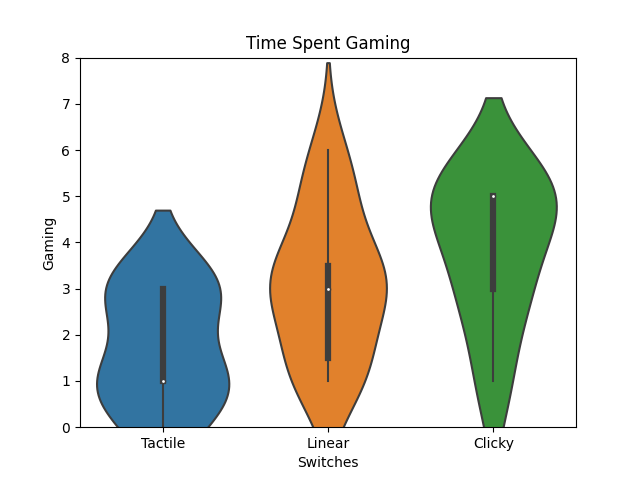
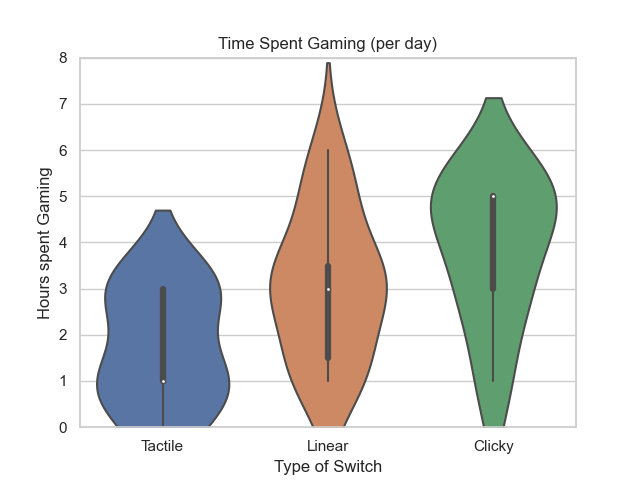
??

diff --git a/main.py b/main.py
@@ -1,10 +1,12 @@
 import pandas as pd
 import matplotlib.pyplot as plt
 import seaborn as sns
+sns.set(style = "whitegrid")
 
-keydf = pd.read_excel('C:\\Users\\Justin\\Documents\\keyb1.xlsx')
+keydf = pd.read_excel('C:\\Users\\Justin\\PycharmProjects\\keyboard\\keyb1.xlsx')
+keydf2 = pd.read_excel('C:\\Users\\Justin\\Documents\\keyb2.xlsx')
 
-print(keydf.iat[0,3])
+print(keydf.iat[0,9])
 
 #we want to parse through all of the users here and underestand where they stand
 
@@ -37,87 +39,120 @@ def calculate_weights(lst):
     return [reasons.count('Gaming'), reasons.count('Quality'),
             reasons.count('Productivity'), reasons.count('Aesthetics'), reasons.count('Price')]
 
+
+#Min and Max plots with both people who are in and not in, as well as updated versus with previous
+#Both Together
 f, ax = plt.subplots()
-#Minimum price plot
-sns.violinplot(x = "Switches", y = "Min", data=keydf)
+sns.violinplot(x="Keyboard", y="Min", hue="Heard?", data=keydf, split=True)
+ax.set(xlabel="Type of Keyboard", ylabel="Minimum $ for a custom keyboard")
 plt.ylim(0, 5)
-ax.set(ylabel = "Minimum Amount for a Custom (hundreds)", xlabel = "Type of Switch")
+plt.legend(title = "Heard of custom?", loc='upper right')
 plt.savefig("minplot.png")
 plt.close()
-#Maximum price plot
-sns.violinplot(x = "Switches", y = "Max", data=keydf)
-plt.ylim(0, 20)
-ax.set(ylabel = "Maximum Amount for a Custom (hundreds)", xlabel = "Type of Switch")
+
+f, ax = plt.subplots()
+sns.violinplot(x="Keyboard", y="Max", hue="Heard?", data=keydf, split=True)
+ax.set(xlabel="Type of Keyboard", ylabel="Minimum $ for a custom keyboard")
+plt.ylim(0, 15)
+plt.legend(title = "Heard of custom?", loc='upper right')
 plt.savefig("maxplot.png")
 plt.close()
 
-#Types of keyboards chart
-labels = "Mechanical", 'Membrane'
-keyboardtypes = []
-for i in range(len(keydf)):
-    keyboardtypes.append(keydf.iat[i, 1])
-mech = keyboardtypes.count("Mechanical keyboard")
-membrane = keyboardtypes.count("Membrane keyboard")
-print(mech, membrane)
-#Tactile pie Chart
-labels = 'Gaming', 'Quality of life', 'Productivity', 'Aesthetics', 'Price'
-sizes = calculate_weights(tactile)
-explode = (.1, 0, 0, 0, 0)
-
-fig1, ax1 = plt.subplots()
-ax1.pie(sizes, explode = explode, labels=labels, shadow = True, autopct = '%1.1f%%',
-        startangle = 90)
-ax1.axis('equal')
-plt.title("Reasons of Purchase for Tactile Users")
-plt.savefig('tactilepie.png')
-plt.close()
-
-#Linear pie chart
-
-labels = 'Gaming', 'Quality of life', 'Productivity', 'Aesthetics', 'Price'
-sizes = calculate_weights(linear)
-explode = (.1, 0, 0, 0, 0)
-
-fig1, ax1 = plt.subplots()
-ax1.pie(sizes, explode = explode, labels=labels, shadow = True, autopct = '%1.1f%%',
-        startangle = 90)
-ax1.axis('equal')
-plt.title("Reasons of Purchase for Linear Users")
-plt.savefig('linearpie.png')
-plt.close()
-
-#Clicky Chart
-labels = 'Gaming', 'Quality of life', 'Productivity', 'Aesthetics', 'Price'
-sizes = calculate_weights(clicky)
-explode = (.1, 0, 0, 0, 0)
-
-fig1, ax1 = plt.subplots()
-ax1.pie(sizes, explode = explode, labels=labels, shadow = True, autopct = '%1.1f%%',
-        startangle = 90)
-ax1.axis('equal')
-plt.title("Reasons of Purchase for Clicky Users")
-plt.savefig('clickypie.png')
-plt.close()
-
-#Violin Productive
-sns.violinplot(x = "Switches", y = "Productivity", data=keydf)
-plt.ylim(0, 8)
-plt.title("Time Spent Productively")
-plt.savefig('productivity.png')
-plt.close()
-#Violin Gaming
-sns.violinplot(x = "Switches", y = "Gaming", data=keydf)
-plt.ylim(0, 8)
-plt.title("Time Spent Gaming")
-plt.savefig('gaming.png')
-plt.close()
-#Violin Unproductive
+#Both Separately
 f, ax = plt.subplots()
-sns.violinplot(x = "Switches", y = "Social", data=keydf)
-plt.ylim(0, 8)
-ax.set(ylabel = "Unproductive Work")
-plt.title("Time Spent On Unproductive Work (YouTube, Social Media, etc.)")
-plt.savefig('social.png')
+sns.violinplot(x="Keyboard", y="Min", hue="Heard?", data=keydf2, split=True)
+ax.set(xlabel="", ylabel="Minimum $ for a custom keyboard")
+plt.ylim(0, 5)
+plt.legend(title = "Heard of custom?", loc='upper right')
+plt.savefig("minplot2.png")
+plt.close()
+
+f, ax = plt.subplots()
+sns.violinplot(x="Keyboard", y="Max", hue="Heard?", data=keydf2, split=True)
+ax.set(xlabel="", ylabel="Minimum $ for a custom keyboard")
+plt.ylim(0, 15)
+plt.legend(title = "Heard of custom?", loc='upper right')
+plt.savefig("maxplot2.png")
+plt.close()
+# f, ax = plt.subplots()
+# #Minimum price plot
+# sns.violinplot(x = "Switches", y = "Min", data=keydf)
+# plt.ylim(0, 5)
+# ax.set(ylabel = "Minimum Amount for a Custom (hundreds)", xlabel = "Type of Switch")
+# plt.title('Min. $ for Custom v.s. Type of Switch')
+# plt.savefig("minplot.png")
+# plt.close()
+# #Maximum price plot
+# sns.violinplot(x = "Switches", y = "Max", data=keydf)
+# plt.ylim(0, 20)
+# ax.set(ylabel = "Maximum Amount for a Custom (hundreds)", xlabel = "Type of Switch")
+# plt.title('Max. $ for Custom v.s. Type of Switch')
+# plt.savefig("maxplot.png")
+# plt.close()
+#
+# #Tactile pie Chart
+# labels = 'Gaming', 'Quality of life', 'Productivity', 'Aesthetics', 'Price'
+# sizes = calculate_weights(tactile)
+# explode = (.1, 0, 0, 0, 0)
+#
+# fig1, ax1 = plt.subplots()
+# ax1.pie(sizes, explode = explode, labels=labels, shadow = True, autopct = '%1.1f%%',
+#         startangle = 90)
+# ax1.axis('equal')
+# plt.title("Reasons of Purchase for Tactile Users")
+# plt.savefig('tactilepie.png')
+# plt.close()
+#
+# #Linear pie chart
+#
+# labels = 'Gaming', 'Quality of life', 'Productivity', 'Aesthetics', 'Price'
+# sizes = calculate_weights(linear)
+# explode = (.1, 0, 0, 0, 0)
+#
+# fig1, ax1 = plt.subplots()
+# ax1.pie(sizes, explode = explode, labels=labels, shadow = True, autopct = '%1.1f%%',
+#         startangle = 90)
+# ax1.axis('equal')
+# plt.title("Reasons of Purchase for Linear Users")
+# plt.savefig('linearpie.png')
+# plt.close()
+#
+# #Clicky Chart
+# labels = 'Gaming', 'Quality of life', 'Productivity', 'Aesthetics', 'Price'
+# sizes = calculate_weights(clicky)
+# explode = (.1, 0, 0, 0, 0)
+#
+# fig1, ax1 = plt.subplots()
+# ax1.pie(sizes, explode = explode, labels=labels, shadow = True, autopct = '%1.1f%%',
+#         startangle = 90)
+# ax1.axis('equal')
+# plt.title("Reasons of Purchase for Clicky Users")
+# plt.savefig('clickypie.png')
+# plt.close()
+#
+# #Violin Productive
+# f, ax = plt.subplots()
+# sns.violinplot(x = "Switches", y = "Productivity", data=keydf)
+# plt.ylim(0, 8)
+# plt.title("Time Spent Productively (per day)")
+# ax.set(ylabel = "Hours spent Productively", xlabel = "Type of Switch")
+# plt.savefig('productivity.png')
+# plt.close()
+# #Violin Gaming
+# f, ax = plt.subplots()
+# sns.violinplot(x = "Switches", y = "Gaming", data=keydf)
+# plt.ylim(0, 8)
+# plt.title("Time Spent Gaming (per day)")
+# ax.set(ylabel = "Hours spent Gaming", xlabel = "Type of Switch")
+# plt.savefig('gaming.png')
+# plt.close()
+# #Violin Unproductive
+# f, ax = plt.subplots()
+# sns.violinplot(x = "Switches", y = "Social", data=keydf)
+# plt.ylim(0, 8)
+# plt.title("Time Spent On Unproductive Work - Gaming (per day)")
+# ax.set(ylabel = "Hours spent Unproductively (- Gaming)", xlabel = "Type of Switch")
+# plt.savefig('social.png')
 
 # class User:
 #     def __init__(self, usernum, switches, prod, game, unprod):
